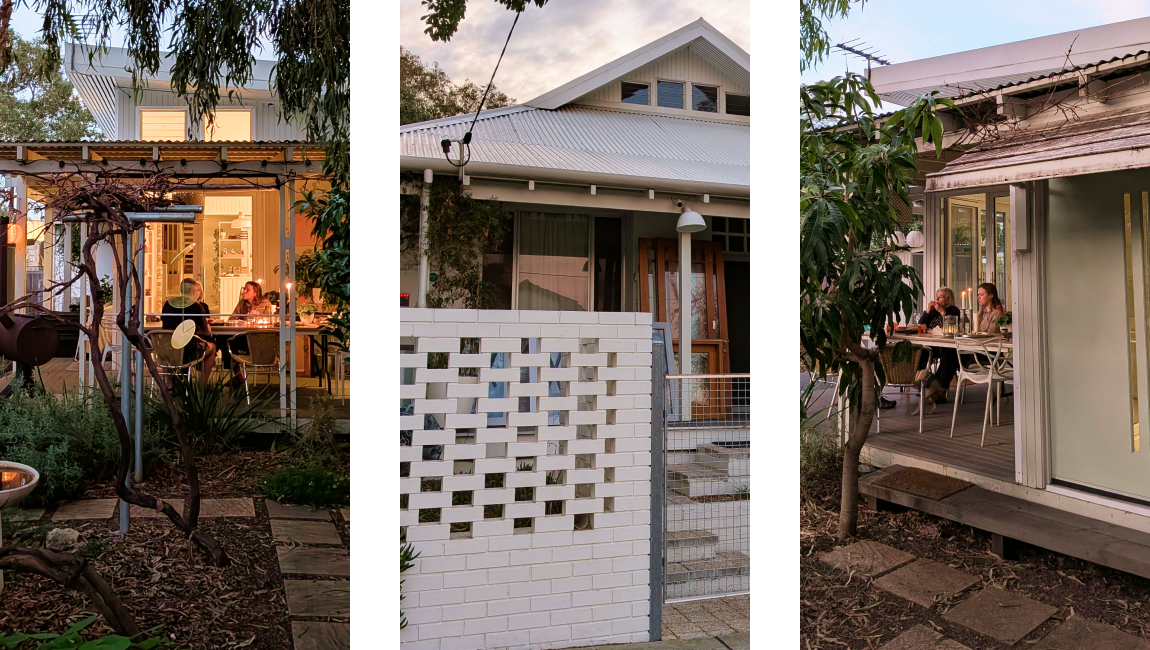
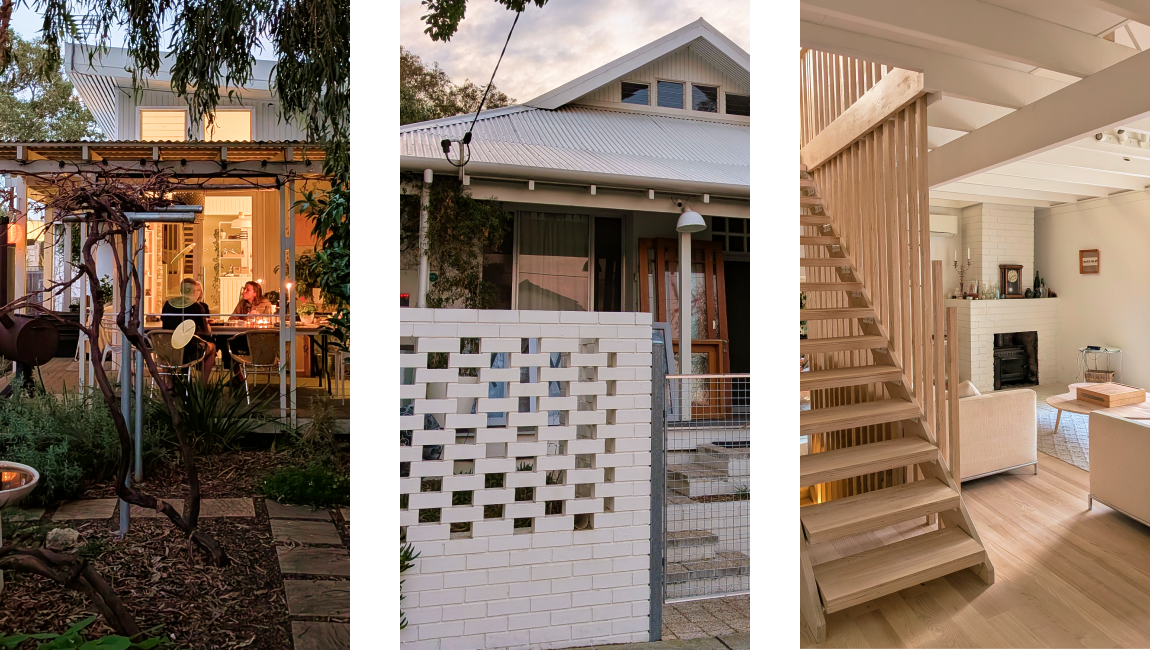
Publish-latest-site-updates

Changed region(s): [[0.6696, 0.0, 1.0, 1.0]]

diff --git a/index.html b/index.html
@@ -27,6 +27,13 @@
     <header class="site-header">
       <div class="container header-inner">
         <a class="site-logo" href="#top" aria-label="Duo West home">DUO WEST.</a>
+        <a
+          class="button header-cta"
+          href="https://tally.so/r/9qy7BG"
+          target="_blank"
+          rel="noreferrer"
+          >Get in touch</a
+        >
       </div>
     </header>
 
@@ -64,7 +71,7 @@
             <h1>Our Philosophy.</h1>
             <br>
             <p>
-              Duo West is a residential design and engineering practice based in Fremantle / Walyalup.
+              Duo West is a residential design and engineering practice based in Fremantle/Walyalup.
               </p><br>
                        <div class="detail-strip" aria-label="Architectural details">
         <div class="detail-grid">
@@ -183,13 +190,14 @@
               </p><p>
               The project explores how thoughtful design and engineering can create more with less.</p>
           <br>
-          <div class="project-media">
+          <div class="project-media" style="display: none;">
             <figure class="image-frame image-frame-project fade-in">
               <img
                 src="assets/images/frame24.png"
                 alt="Thompson Road House exterior or sectional view"
                 data-placeholder="Thompson Road main image"
                 loading="lazy"
+                
               />
               <div class="image-placeholder" aria-hidden="true">
                 Thompson Road main image
@@ -197,22 +205,23 @@
             </figure>
           </div>
           <br><br><p style="width: 240px; border-bottom: solid 2px #2B2B2B;"></p><br><br>
-          <h2>Thompson Road House</h2>
+          <h2>Edmund Street House</h2>
             <p style="font-size:17px;font-weight: 500;">
-              North Fremantle · 2026
+              Beaconsfield · 2025
               </p><br>
             <p>
-              A two-storey loft-style timber home designed around warmth, natural materials and everyday living.
+              A split level timber loft-style renovation of an iconic 70s brick house, designed around outdoor living, light and cozy spaces.
               </p><p>
-              The project explores how thoughtful design and engineering can create more with less.</p>
+              The project explores how it's always worth saving a house that was sold as a knock down.</p>
           <br>
-          <div class="project-media">
+          <div class="project-media" style="display: none;">
             <figure class="image-frame image-frame-project fade-in">
               <img
                 src="assets/images/frame24.png"
                 alt="Thompson Road House exterior or sectional view"
                 data-placeholder="Thompson Road main image"
                 loading="lazy"
+                
               />
               <div class="image-placeholder" aria-hidden="true">
                 Thompson Road main image
@@ -265,7 +274,7 @@
           </svg>
           <span>Instagram</span>
         </a>
-        <p class="footer-meta" style="font-size:14px;">Fremantle / Walyalup © 2026 Duo West.</p>
+        <p class="footer-meta" style="font-size:14px;">Fremantle/Walyalup © 2026 Duo West.</p>
       </div>
     </footer>
 

diff --git a/styles.css b/styles.css
@@ -77,29 +77,64 @@ a {
   top: 0;
   z-index: 100;
   background: rgba(255, 255, 255, 0.95);
+  min-height: 4.75rem;
 }
 
 .site-logo {
   width: max-content;
-  display: block;
+  display: inline-flex;
+  align-items: center;
   font-size: 20px;
   font-weight: 900;
   letter-spacing: 0;
-  line-height: 1.15em;
+  line-height: 1;
   text-transform: uppercase;
   color: var(--color-charcoal);
   white-space: nowrap;
 }
 
+.site-header .site-logo {
+  padding-left: 5px;
+  padding-right: 15px;
+  padding-top: 22px;
+}
+
 .header-inner {
-  display: flex;
+  display: grid;
+  grid-template-columns: max-content max-content;
   align-items: center;
+  align-content: center;
   justify-content: flex-start;
-  min-height: 4.75rem;
+  gap: 12px;
+  min-height: inherit;
 }
 
 .site-header.is-scrolled .header-inner {
   justify-content: flex-end;
+}
+
+.header-cta {
+  display: inline-flex;
+  align-items: center;
+  justify-content: center;
+  align-self: center;
+  margin-top: 0;
+  min-height: 40px;
+  padding: 9px 15px;
+  opacity: 0;
+  pointer-events: none;
+  transform: translateY(-4px);
+  transition:
+    opacity var(--transition-quick),
+    transform var(--transition-quick),
+    background var(--transition-quick),
+    color var(--transition-quick);
+}
+
+.site-header.is-scrolled .header-cta {
+  opacity: 1;
+  pointer-events: auto;
+  transform: translateY(0);
 }
 
 .site-nav {

diff --git a/script.js b/script.js
@@ -40,6 +40,7 @@ if (heroImage) {
     "assets/images/frame30.png",
     "assets/images/frame31.png",
     "assets/images/frame32.png",
+    "assets/images/frame33.png",
   ];
   let heroFrameIndex = 0;
 
